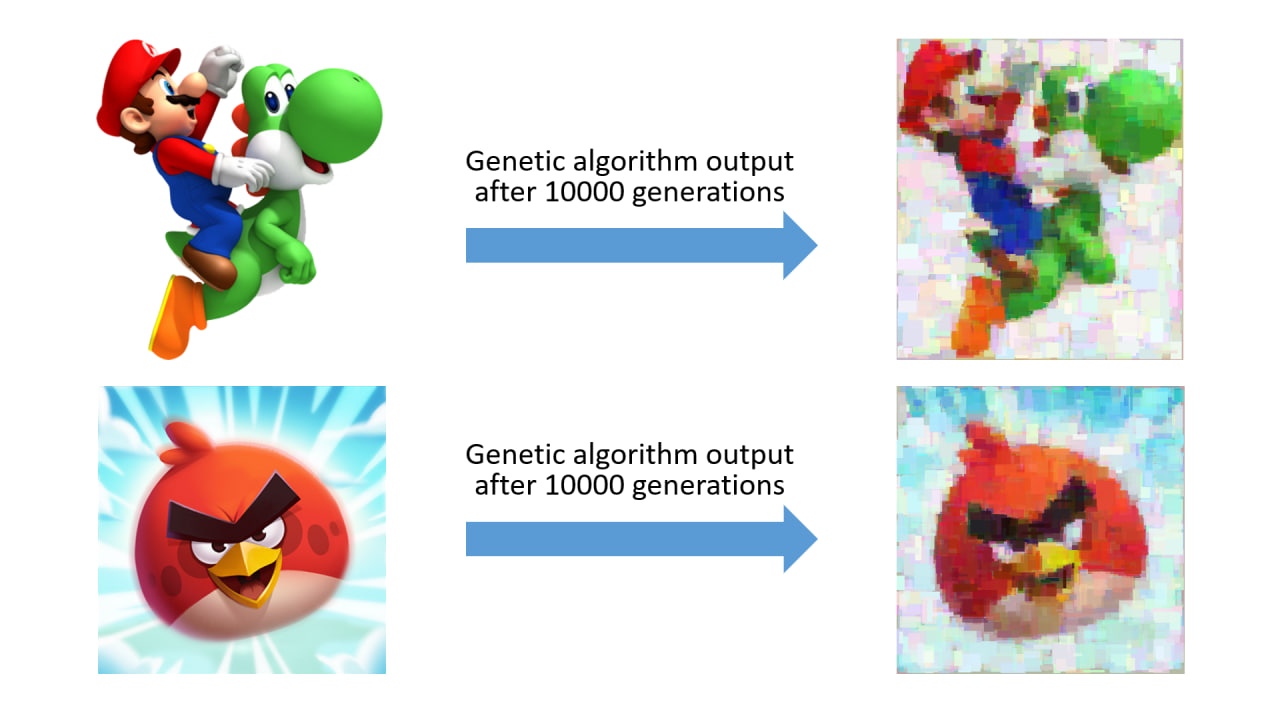
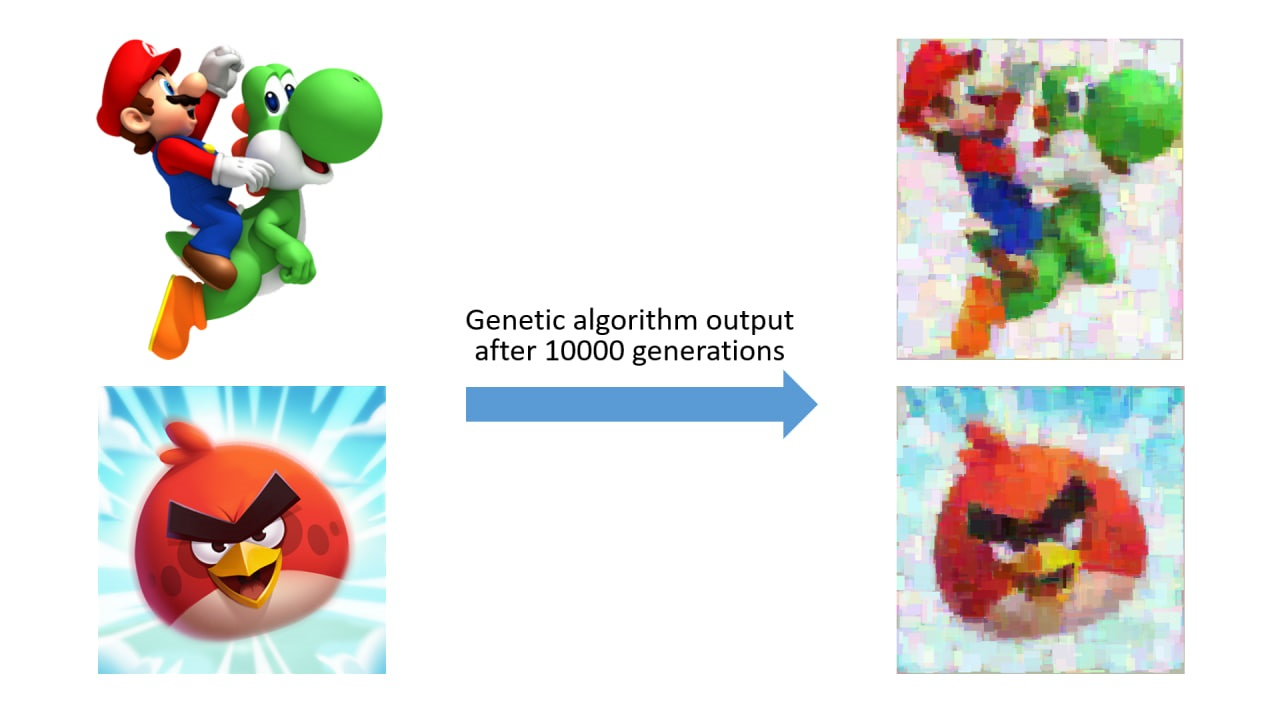
Update readme and top_individuals method

Changed region(s): [[0.3438, 0.4278, 0.6562, 0.7944], [0.3438, 0.2139, 0.6562, 0.3972]]

diff --git a/Genetic.py b/Genetic.py
@@ -59,16 +59,15 @@ class Genetic:
         
         return child
 
-    def top_individuals(self, top) -> tuple:
-        fitnesses = np.zeros(self.population_size)
+    def top_individuals(self) -> tuple:
+        top_individual: Individual
+        top_fitness = 10**9
         for i, individual in enumerate(self.population):
-            fitnesses[i] = self.target.fitness(individual.img)
+            if (f := self.target.fitness(individual.img)) < top_fitness:
+                top_fitness = f
+                top_individual = self.population[i]
 
-        sorted_fitnesses = np.argsort(fitnesses)
-        top_fitnesses = sorted_fitnesses[:top]
-        top_individuals = [self.population[idx] for idx in top_fitnesses]
-
-        return top_individuals, fitnesses[top_fitnesses]
+        return top_individual, top_fitness
 
     def run(self, generations: int, print_every: int = 50) -> None:
         for i in range(generations):

diff --git a/main.py b/main.py
@@ -13,10 +13,9 @@ if __name__ == '__main__':
     print('Population Initialized.')
     
     print('Running...')
-    model.run(generations=10000)
+    model.run(generations=100)
 
     print('Calculating Top Individuals...')
-    top, fitness = model.top_individuals(3)
-    for i, (t, f) in enumerate(zip(top, fitness), 1):
-        t.show(f'Rank {i}, Fitness: {f}')
-        t.save(f'out/angry_bird_{i}.png')
+    top, fitness = model.top_individuals()
+    top.show(f'Fitness: {fitness}')
+    top.save(f'out/angry_bird_reconstructed.png')

diff --git a/README.md b/README.md
@@ -7,3 +7,23 @@
 Each Individual is an image with size of target image. When a random individual is created, it is given a random background color. Then, a random number of rectangular blocks with a random size of a specific random color for each individual is added to that background.
 
 <img src="resource/initial_population.png" alt="Example">
+
+## Fitness Function
+
+A relatively straightforward implementation for the fitness function is pixel-wise Mean Square Error (MSE) between two images. It may sound so strict to use this parameter because of its sensitivity to small differences which are not recognizable in Human Visual System (HVS) but actually, it works fine in practice.
+
+## Selection
+
+The tournament selection method is implemented to pick up the best individuals as parents for the next generation and then for crossover operation. It randomly samples the population given a tournament size and selects the fittest individual to be the winner of the tournament. In practice, a tournament size between 6-8% of the total population size would be a reasonable choice.
+
+## Crossover
+
+For crossover operation, it is used two different approaches which could help the diversity of the population. Both of these operations in one generation are used for creating the child which each has a probability of choosing.
+
+## Blending Crossover
+
+In this method, a random uniformly distributed variable $x \in [0, 1]$ is generated and the child is overlayed of a first parent with opacity $x$ and the second parent with opacity $1-x$.
+
+## Two Point Crossover
+
+In this approach, two random points on the row and column are selected to be the crossover points. These two points divide the individual into four areas. In areas 1 and 4, the first parent, and in areas 2 and 3, the second parent will be placed without any further changes
